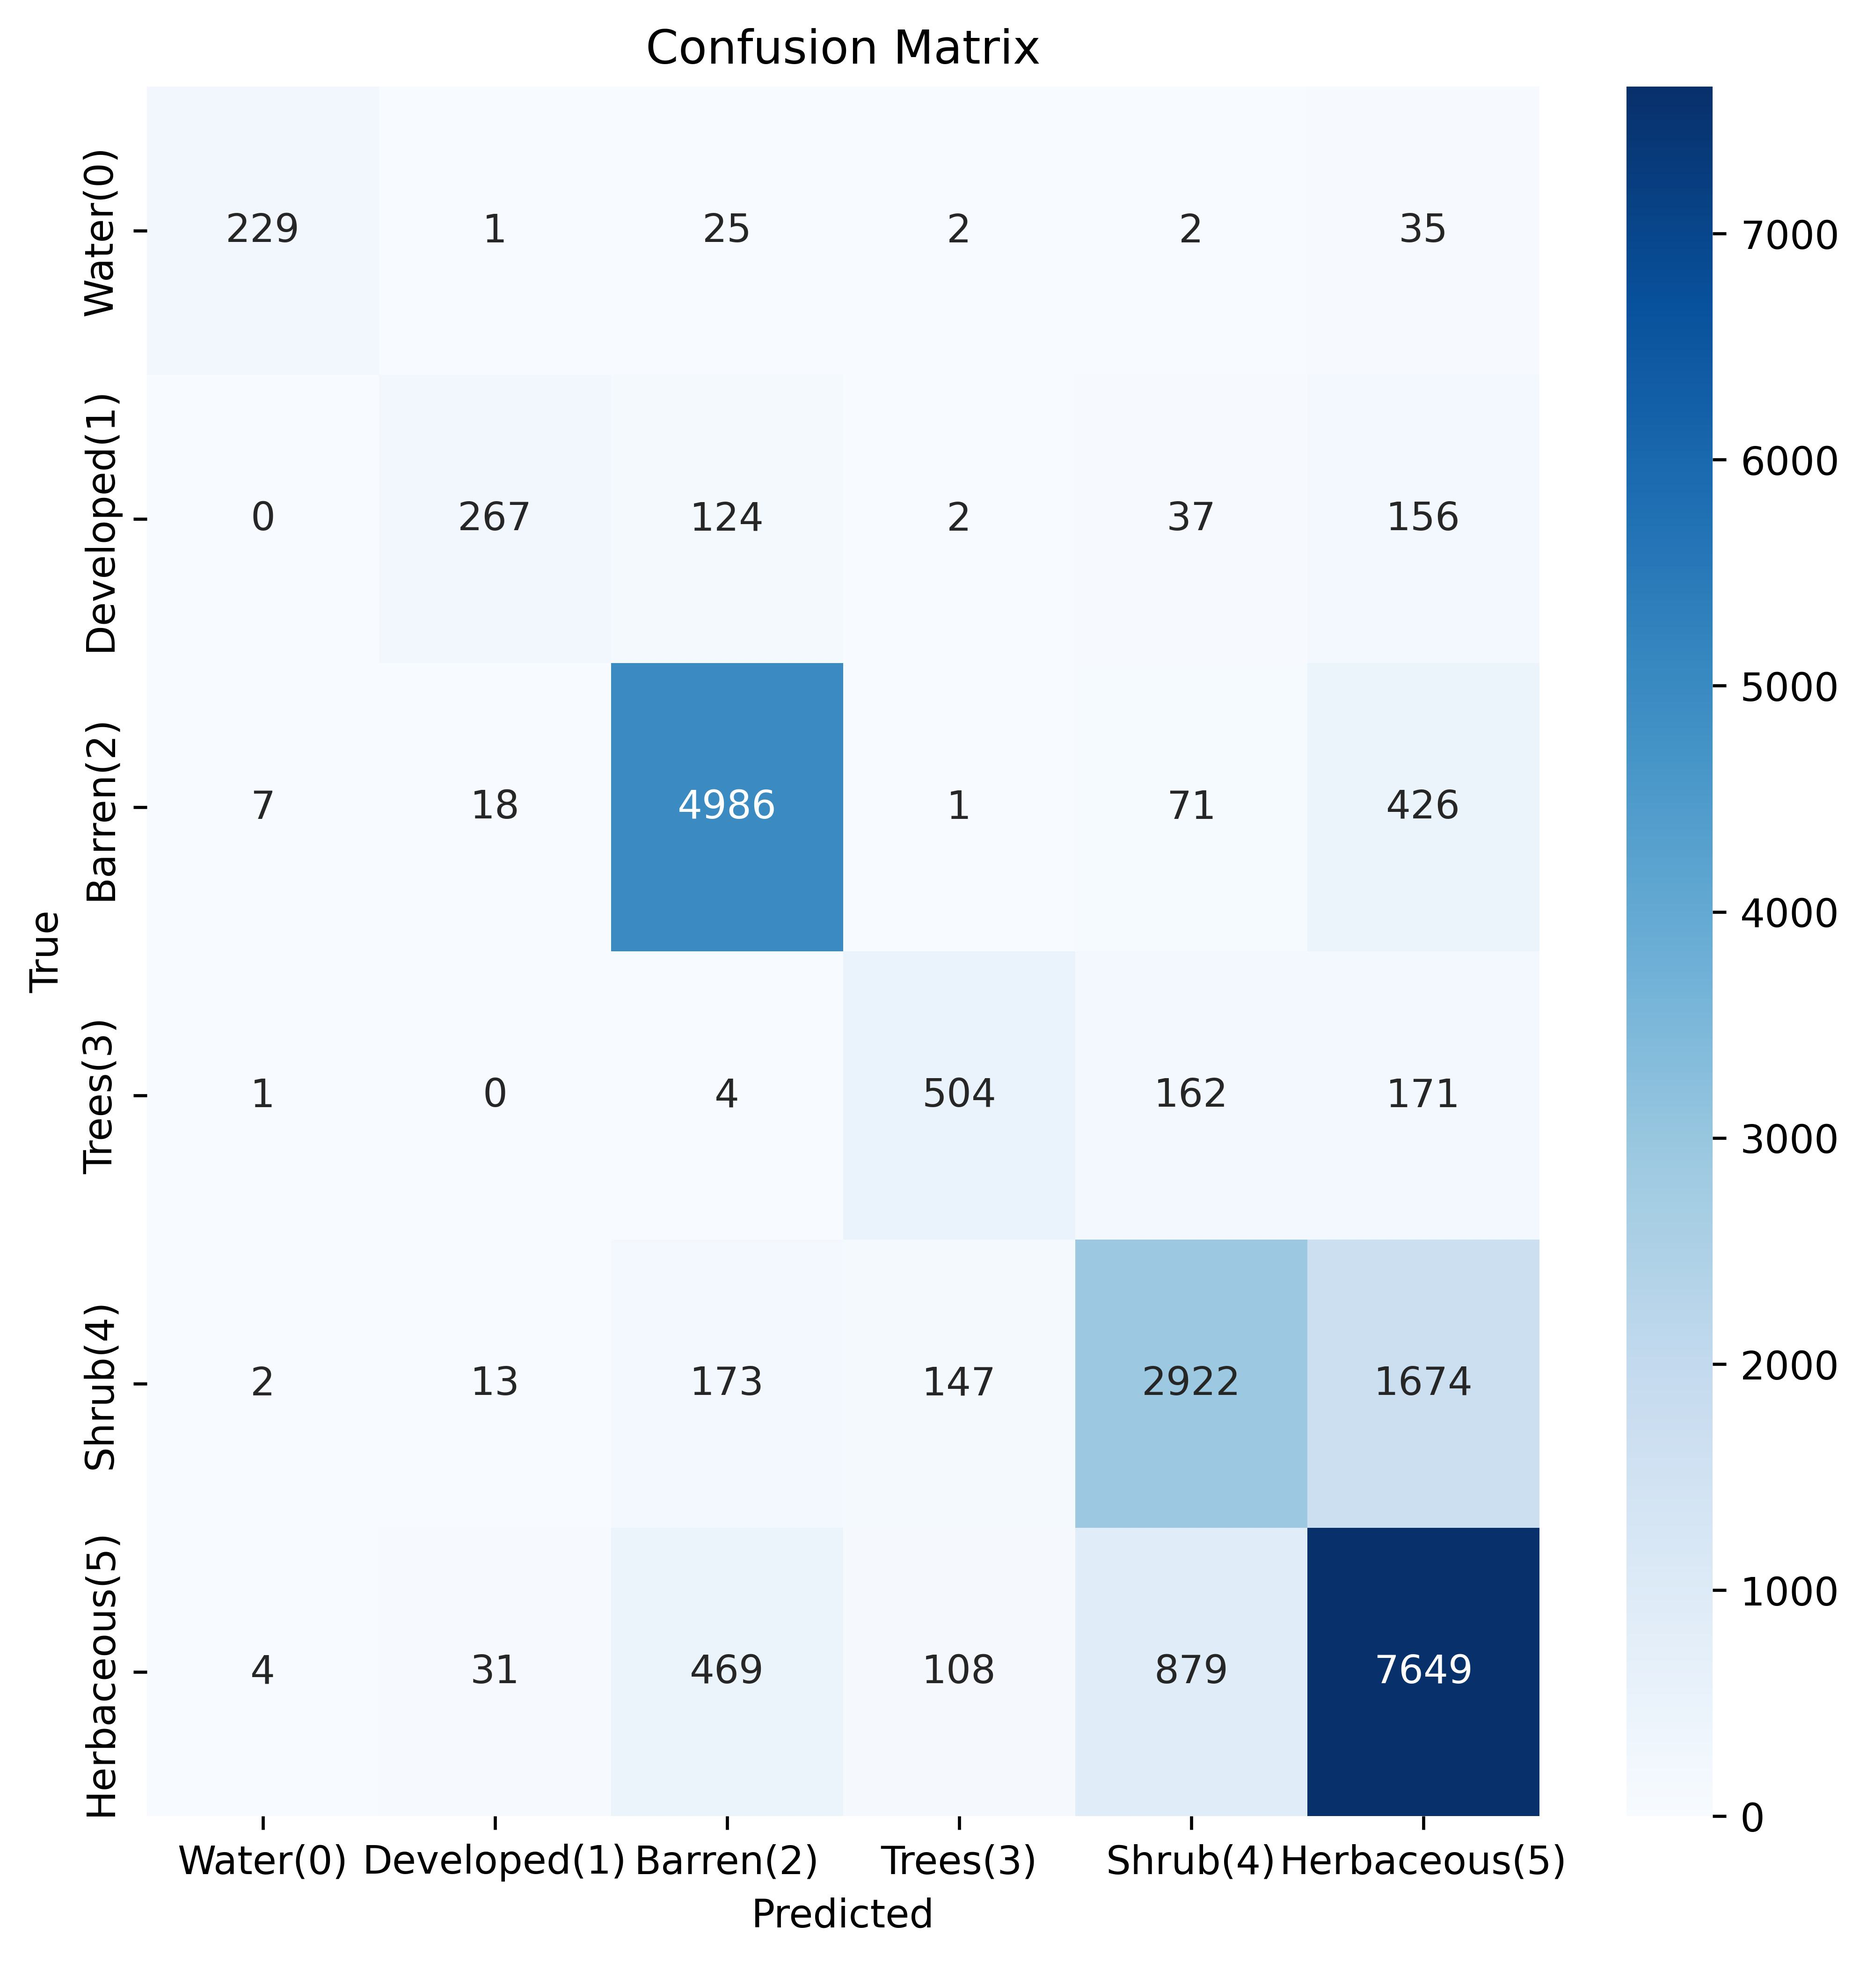
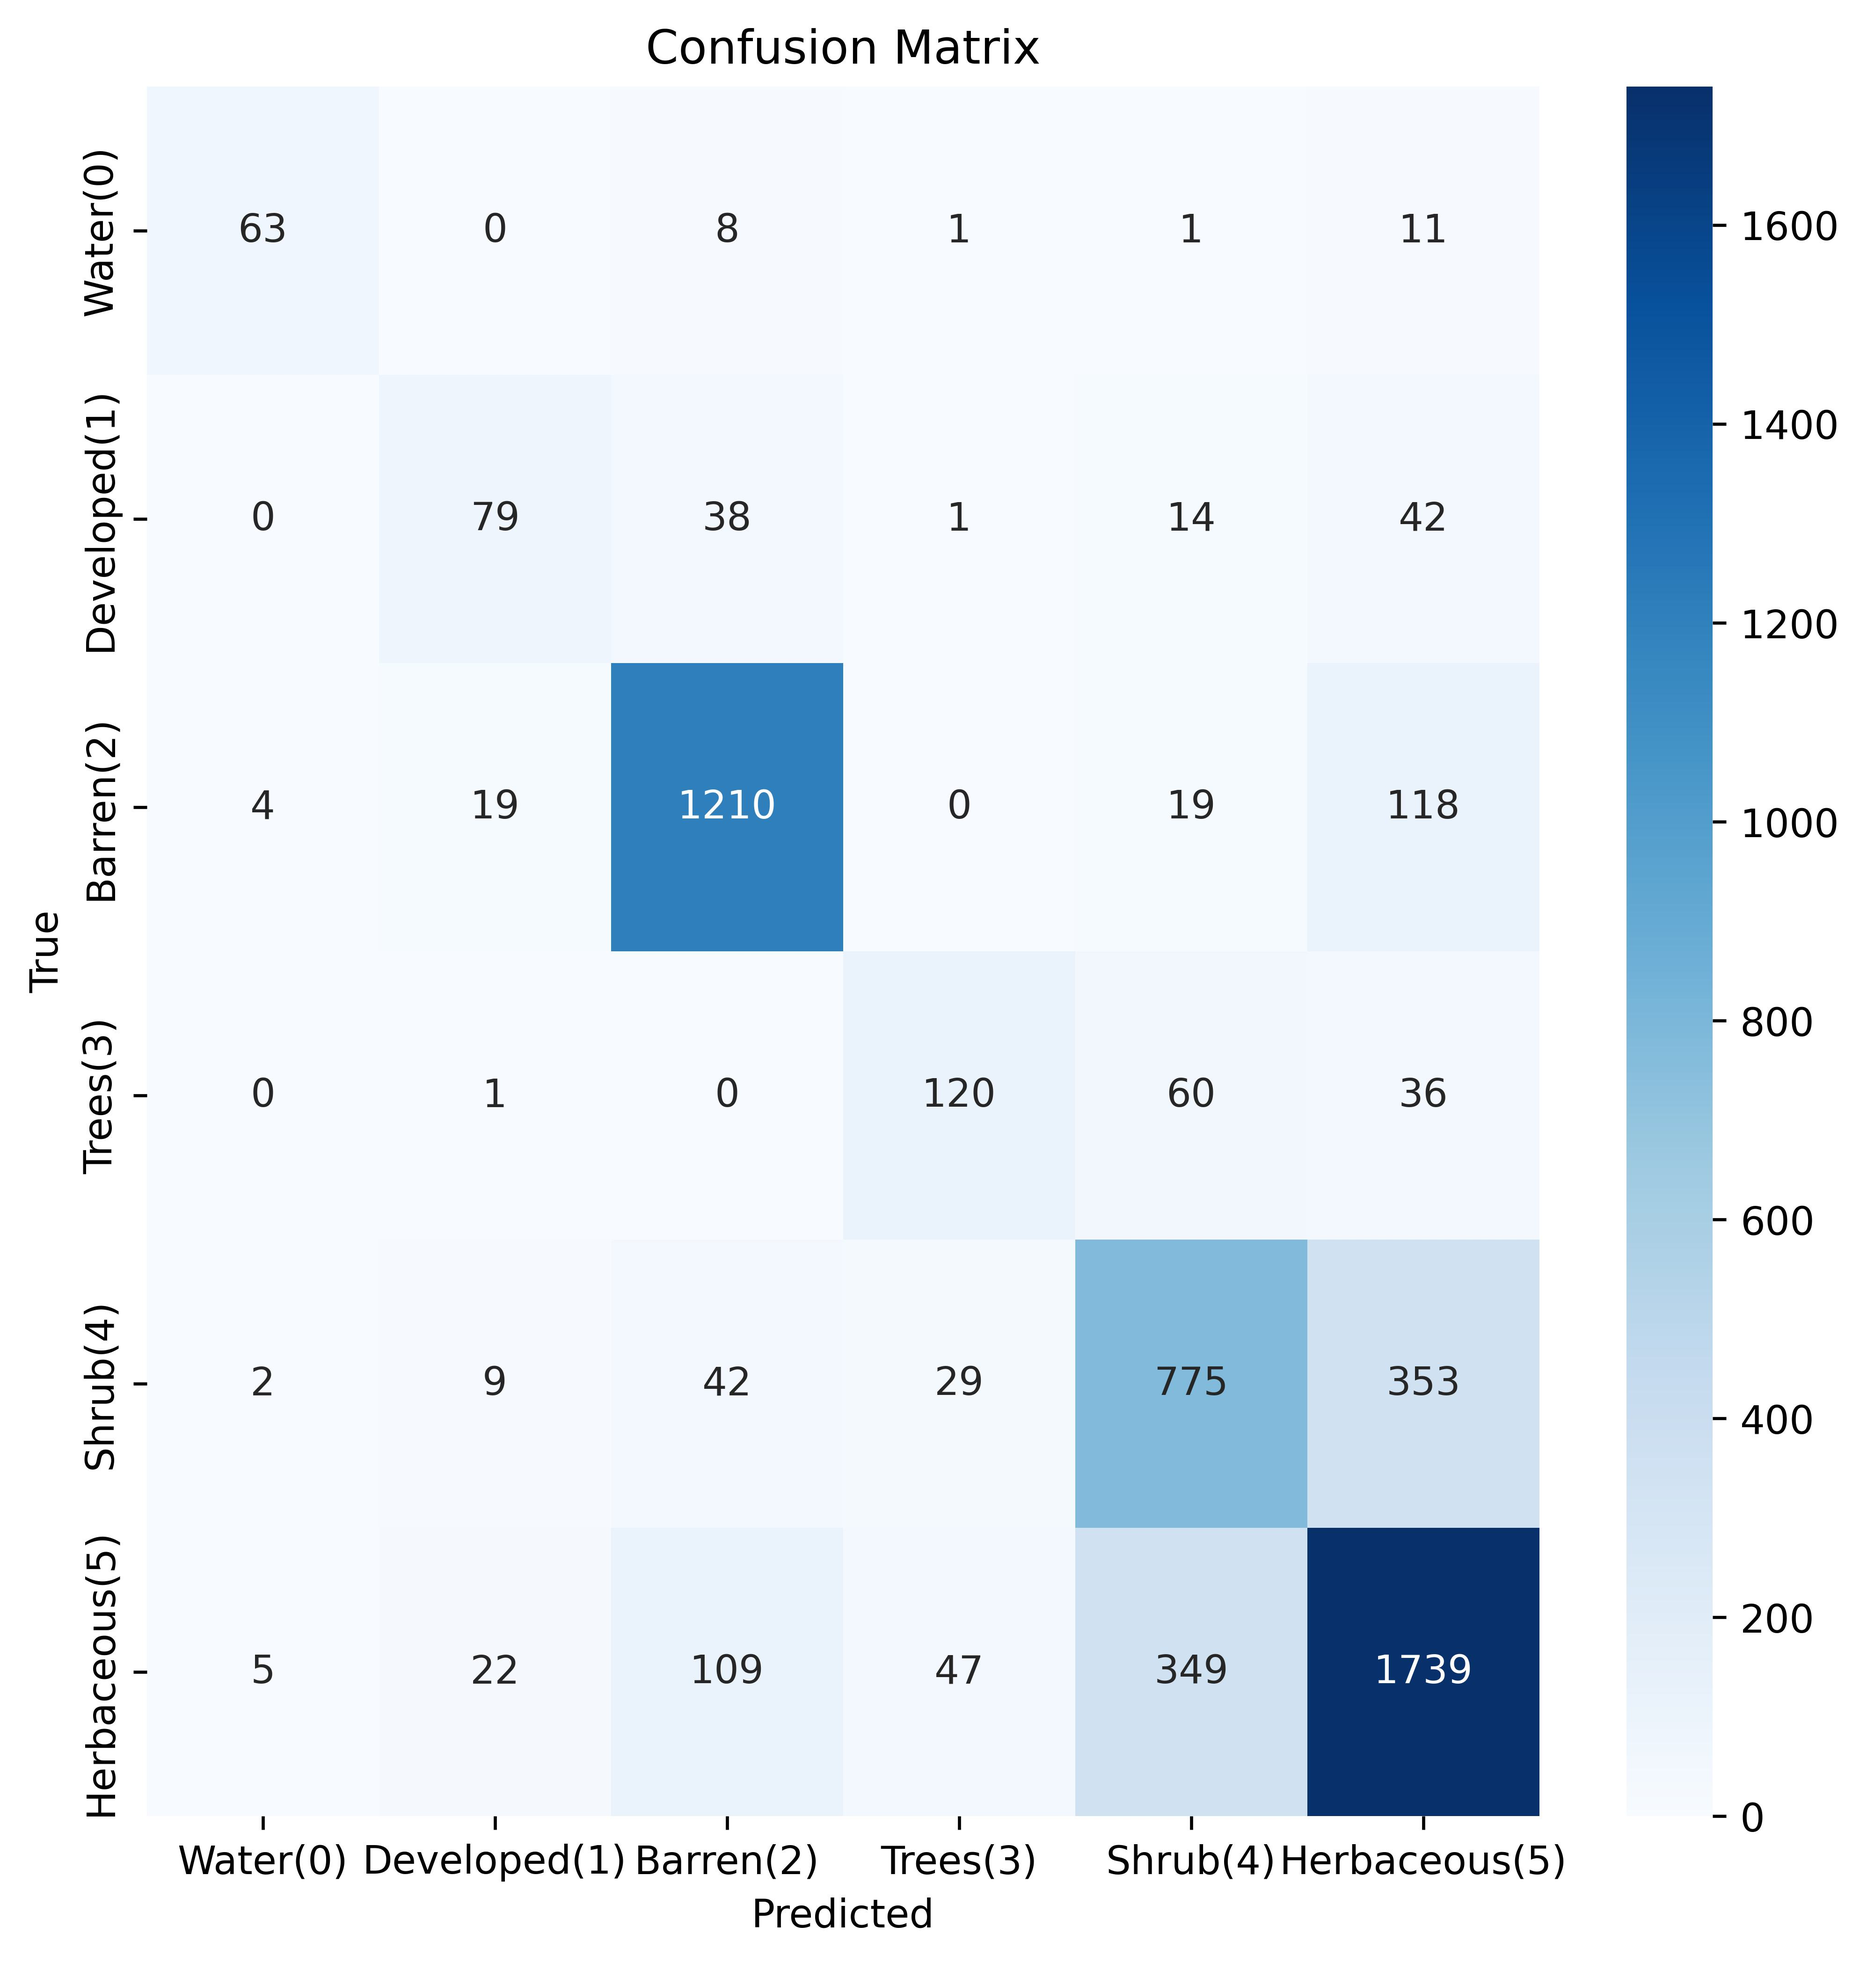
edit

diff --git a/model13.html b/model13.html
@@ -27,11 +27,11 @@
 	<hr>
 	<p><b>Model - Biome 13 - Deserts and Xeric Shrublands.</b></p>
 	<p>A convolutional neural network was trained on 26,628 Sentinel-2 samples (10 x 5 x 5 px) from the Deserts and
-	Xeric Shrublands global biome. The neural network has an accuracy of 74% on the global test dataset.</p>
+	Xeric Shrublands global biome. The neural network has an accuracy of 75% on the global test dataset.</p>
 
 	<figure style="margin: 0; padding: 0; text-align: left;">
         <img src="Figures/biome13_loss.jpg" style="max-width: 80%; height: auto">
-        <figcaption style="color: black;">Figure 1. Loss curve for Convolutional Neural Network over 500 epochs.</figcaption>
+        <figcaption style="color: black;">Figure 1. Loss curve for Convolutional Neural Network over 700 epochs.</figcaption>
     </figure>
 
 	<br>
@@ -39,7 +39,7 @@
 	
 	<figure style="margin: 0; padding: 0; text-align: left;">
         <img src="Figures/biome13_confusion.jpg" style="max-width: 80%; height: auto">
-        <figcaption style="color: black;">Figure 2. Confusion Matrix.</figcaption>
+        <figcaption style="color: black;">Figure 2. Confusion Matrix. The main errors are between Herbaceous and Shrub classes.</figcaption>
     </figure>
 	
 
